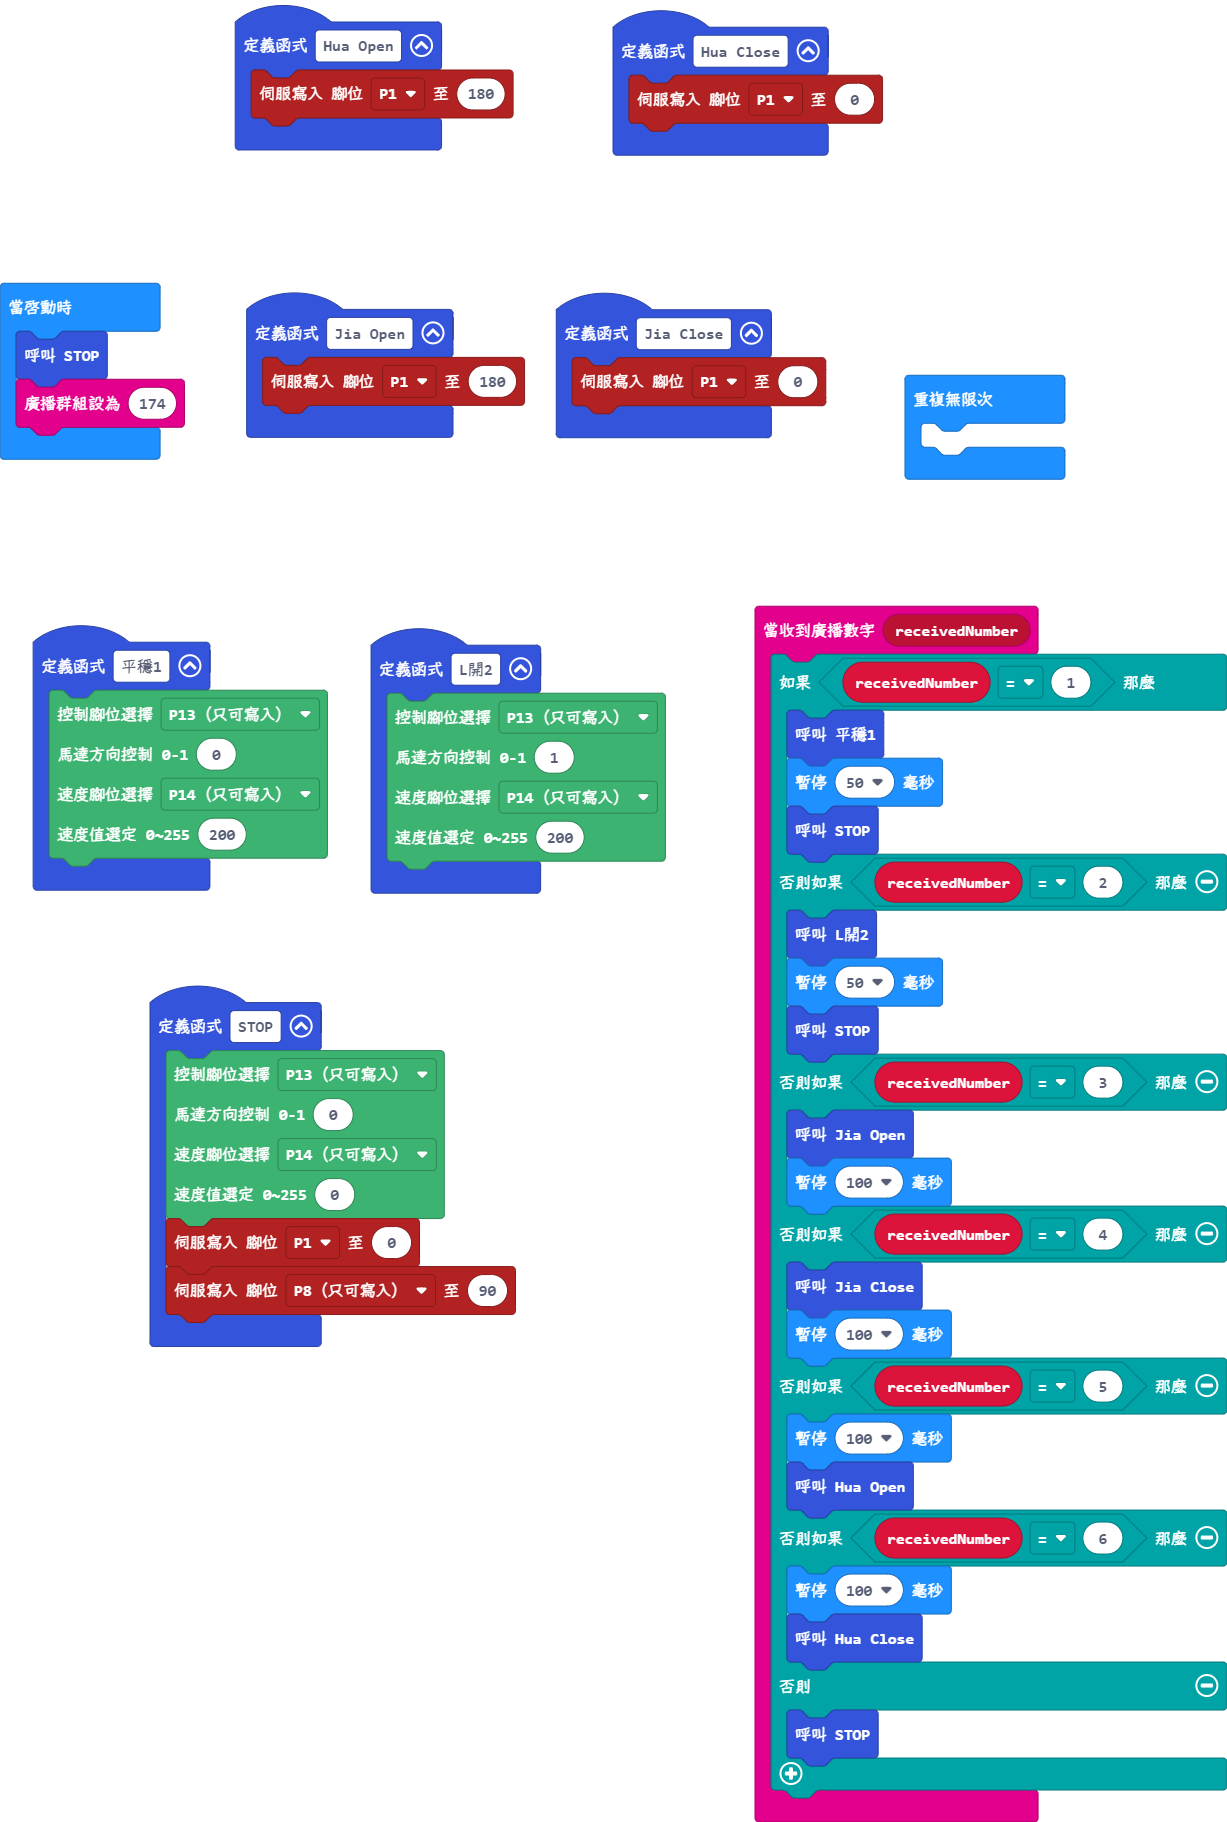
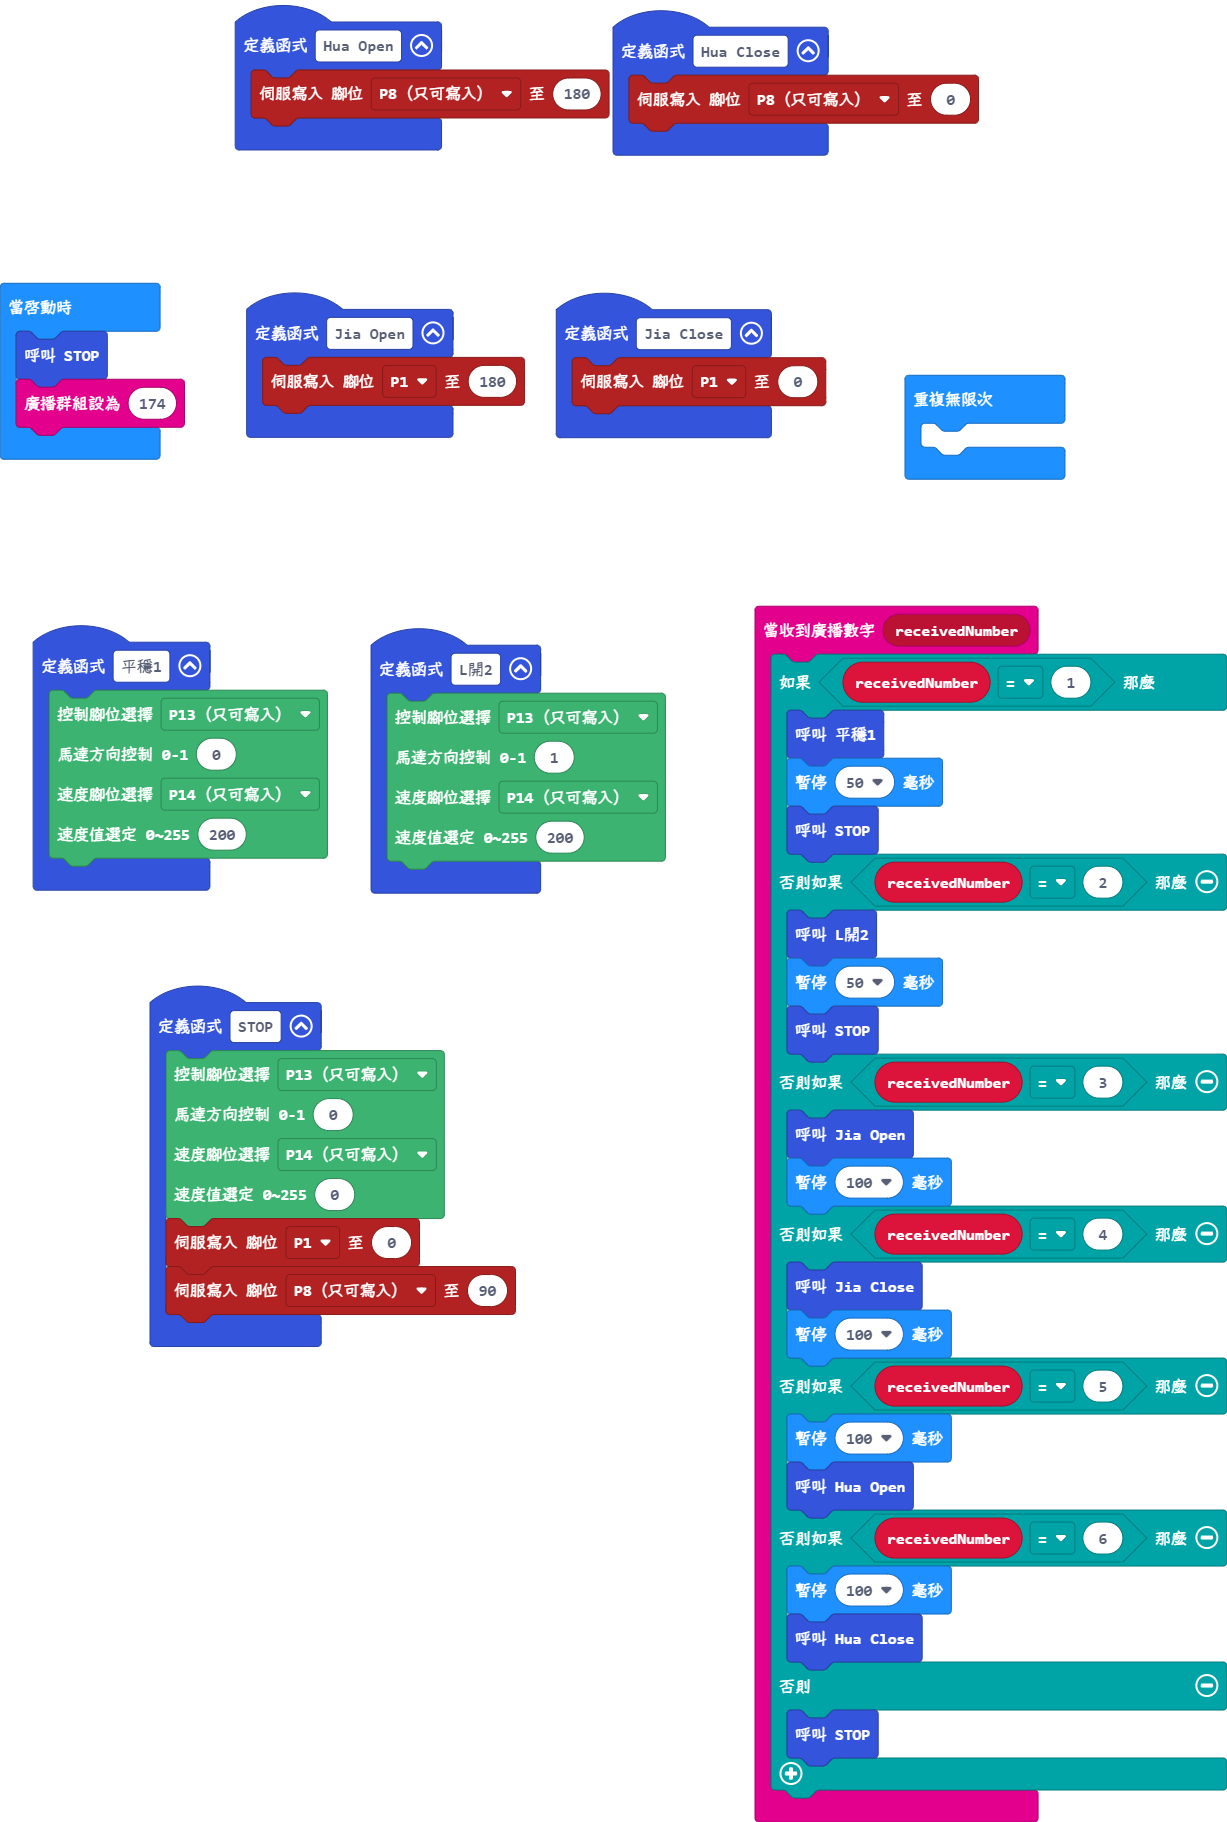
更新 main.blocks, main.ts

Changed region(s): [[0.6504, 0.0307, 0.8052, 0.0922], [0.3407, 0.0307, 0.4955, 0.0922]]

diff --git a/main.ts b/main.ts
@@ -1,5 +1,5 @@
 function Hua_Close () {
-    pins.servoWritePin(AnalogPin.P1, 0)
+    pins.servoWritePin(AnalogPin.P8, 0)
 }
 radio.onReceivedNumber(function (receivedNumber) {
     if (receivedNumber == 1) {
@@ -59,7 +59,7 @@ function 平穩1 () {
     )
 }
 function Hua_Open () {
-    pins.servoWritePin(AnalogPin.P1, 180)
+    pins.servoWritePin(AnalogPin.P8, 180)
 }
 STOP()
 radio.setGroup(174)
